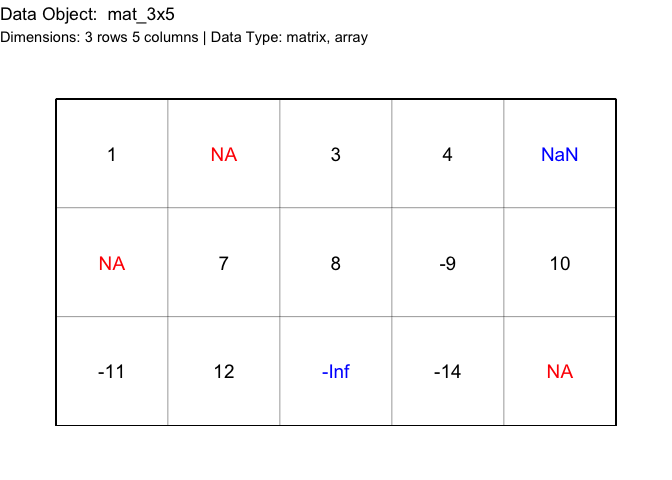
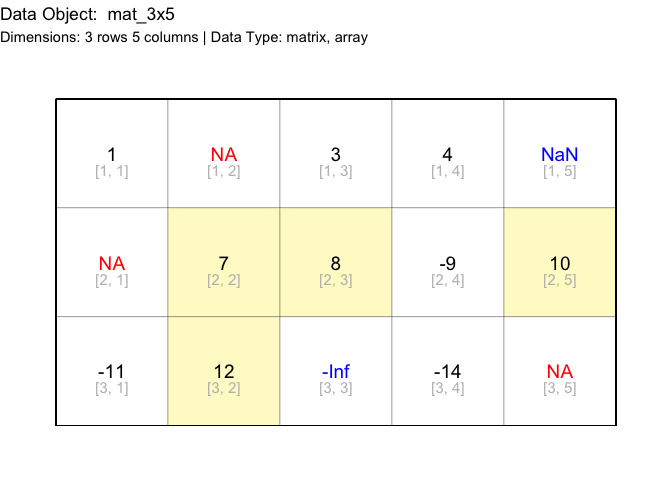
Reduce the number of images...

diff --git a/README.md b/README.md
@@ -95,25 +95,9 @@ gdraw_matrix(mat_3x5)
 <img src="man/figures/README-ggplot2-example-1.png" width="100%" />
 
 ``` r
-# Disable showing the cell indices
-gdraw_matrix(mat_3x5, show_cell_indices = FALSE)
-```
 
-<img src="man/figures/README-ggplot2-example-2.png" width="100%" />
-
-``` r
-# Show row and column indices
-gdraw_matrix(
-  mat_3x5, 
-  show_row_indices = TRUE, show_column_indices = TRUE,
-  show_cell_indices = FALSE)
-```
-
-<img src="man/figures/README-ggplot2-example-3.png" width="100%" />
-
-``` r
 # Highlight cells over a specific value
 gdraw_matrix(mat_3x5, highlight_cells = mat_3x5 > 4)
 ```
 
-<img src="man/figures/README-ggplot2-example-4.png" width="100%" />
+<img src="man/figures/README-ggplot2-example-2.png" width="100%" />
